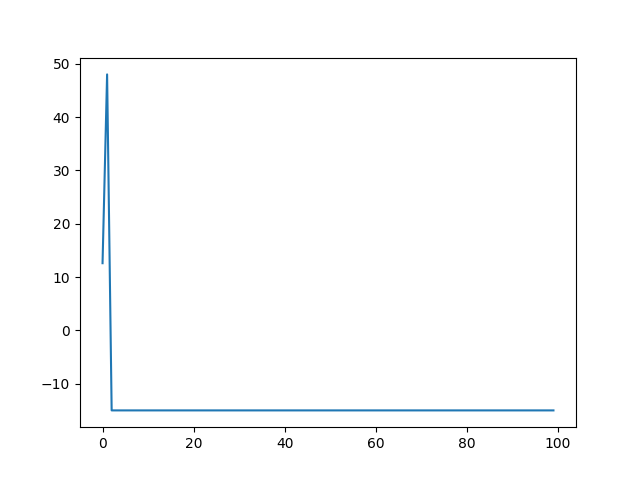
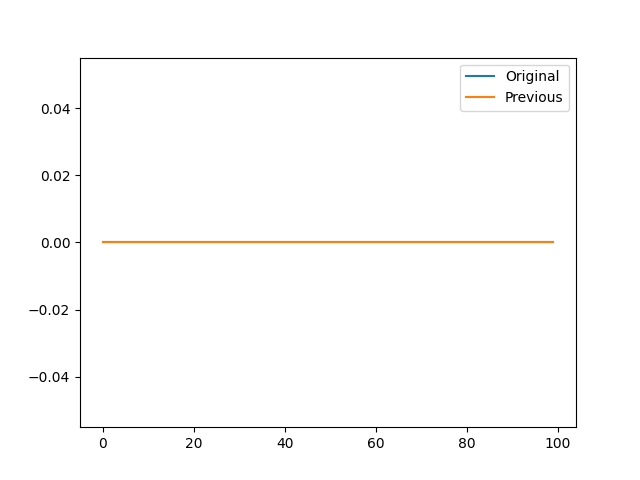
cringe

diff --git a/011/011-2.py b/011/011-2.py
@@ -1,7 +1,10 @@
 import random
 
-best_strategy = {'strategy': {'000000000': 4, '000100000': 6, '000010000': 7, '000120000': 2, '000010200': 3, '001120000': 5, '000011200': 0, '001122000': 6, '200011200': 1, '001122100': 7, '210011200': 3, '001122120': 0, '210211200': 2, '101122120': 8, '211211200': 8, '101122122': 1, '211211202': 7, '001000000': 1, '000001000': 3, '001200000': 0, '000021000': 1, '101200000': 7, '000021100': 0, '101200020': 4, '200021100': 3, '101210020': 8, '200121100': 1, '101210022': 6, '220121100': 8, '101210122': 1, '220121101': 2, '121210122': 5, '222121101': 7, '000000010': 3, '100000000': 6, '000002010': 0, '100000200': 2, '100002010': 3, '100100200': 4, '100202010': 6, '100120200': 8, '100202110': 2, '100120201': 1, '102202110': 1, '120120201': 2, '112202110': 4, '121120201': 7, '112222110': 8, '121120221': 5, '002000010': 3, '100000002': 7, '002100010': 5, '100000012': 1, '002102010': 8, '120000012': 4, '002102011': 1, '120010012': 2, '022102011': 0, '122010012': 3, '122102011': 6, '122110012': 6, '122102211': 4, '122110212': 5, '000020010': 1, '000000100': 4, '010020010': 0, '200000100': 2, '210020010': 3, '201000100': 7, '210120010': 5, '201000120': 4, '210122010': 2, '201010120': 1, '211122010': 8, '201210120': 5, '211122012': 6, '201211120': 1, '221211120': 8, '100000020': 4, '100000201': 1, '100010020': 8, '100000221': 4, '100010022': 3, '100010221': 2, '100110022': 6, '102010221': 3, '100110222': 2, '102110221': 5, '101110222': 5, '102112221': 1, '101112222': 1, '010000000': 6, '102000000': 4, '012000000': 4, '102100000': 5, '012010000': 6, '102102000': 4, '012010200': 8, '102112000': 7, '012010201': 5, '102112020': 8, '012012201': 0, '102112120': 1, '112012201': 7, '122112120': 8, '112012221': 3, '020010000': 3, '000010002': 6, '020110000': 5, '000010102': 3, '020112000': 7, '000210102': 7, '020112010': 0, '000210112': 0, '220112010': 6, '200210112': 1, '220112110': 2, '210210112': 2, '222112110': 8, '212210112': 5, '100200000': 4, '100210000': 1, '100210200': 1, '120000201': 5, '110210200': 5, '120001201': 7, '110212200': 2, '120001221': 4, '111212200': 7, '120011221': 2, '111212220': 8, '122011221': 3, '000000001': 6, '021000000': 5, '000200001': 7, '121000000': 6, '000200011': 1, '121000200': 8, '020200011': 6, '121000201': 3, '020200111': 2, '121200201': 4, '022200111': 0, '121210201': 5, '122200111': 5, '121212201': 7, '122202111': 4, '100200010': 4, '000110200': 0, '100220010': 2, '200110200': 1, '101220010': 8, '210110200': 2, '121220010': 5, '212110200': 8, '121221010': 8, '212110201': 7, '121221012': 6, '212110221': 5, '000020001': 5, '102010000': 1, '100020001': 2, '122010000': 3, '102020001': 6, '122110000': 6, '102020101': 7, '122110200': 8, '102020121': 3, '122110201': 5, '102120121': 1, '122112201': 7, '122120121': 5, '000200010': 0, '010010200': 8, '010200010': 2, '010010202': 7, '012200010': 6, '010010212': 0, '012200110': 8, '210010212': 2, '012200112': 5, '211010212': 5, '012201112': 0, '211012212': 3, '212201112': 4, '000021001': 6, '000021201': 1, '010021201': 2, '120210000': 2, '012021201': 0, '121210000': 8, '112021201': 7, '121210002': 5, '112021221': 3, '121211002': 6, '010000002': 3, '121211202': 7, '010100002': 2, '000012000': 3, '012100002': 5, '000112000': 2, '012101002': 7, '002112000': 0, '012101022': 4, '102112021': 6, '012111022': 6, '012111222': 0, '000010020': 6, '000000201': 7, '000010120': 0, '001000201': 4, '200010120': 5, '001020201': 7, '001020211': 5, '221010120': 8, '001022211': 1, '221010121': 3, '011022211': 0, '221210121': 5, '211022211': 3, '001020000': 7, '000020100': 0, '001020010': 5, '100020100': 7, '001022010': 1, '100020120': 8, '011022010': 3, '100020121': 5, '011222010': 6, '100022121': 3, '011222110': 0, '100122121': 2, '211222110': 8, '102122121': 1, '101000200': 8, '101000202': 5, '101001202': 1, '101220012': 6, '121001202': 4, '101220112': 5, '121011202': 7, '101222112': 1, '121011222': 3, '010002000': 6, '010002100': 3, '000001200': 7, '010202100': 2, '000001210': 8, '011202100': 4, '000001212': 2, '011222100': 0, '001001212': 3, '111222100': 8, '001201212': 4, '111222102': 7, '001211212': 1, '100200100': 7, '021211212': 0, '100200120': 5, '002001000': 6, '100201120': 8, '002001100': 7, '100201122': 2, '002001120': 8, '101201122': 1, '002001121': 0, '121201122': 4, '202001121': 1, '212001121': 4, '020100000': 6, '212021121': 3, '020100100': 4, '020120100': 2, '021120100': 5, '000000211': 0, '021122100': 8, '200000211': 1, '021122101': 0, '210000211': 4, '221122101': 7, '210020211': 5, '210021211': 2, '212021211': 3, '021001000': 3, '021201000': 0, '021201001': 6, '121201000': 4, '021201201': 7, '121221000': 6, '021201211': 0, '121221100': 7, '221201211': 4, '121221120': 8, '000001020': 1, '000000210': 2, '010001020': 3, '001000210': 5, '010201020': 2, '001002210': 0, '010201021': 6, '101002210': 8, '010201221': 0, '101002212': 3, '110201221': 4, '101102212': 1, '110221221': 2, '121102212': 4, '000100200': 5, '000101200': 8, '010000200': 3, '000101202': 2, '010100200': 0, '001101202': 4, '210100200': 2, '001121202': 1, '211100200': 4, '011121202': 7, '211120200': 8, '011121222': 0, '211120201': 5, '002010000': 3, '211122201': 7, '002110000': 0, '000201000': 7, '202110000': 5, '000201010': 4, '202111000': 7, '000221010': 0, '202111020': 1, '100221010': 8, '212111020': 6, '100221012': 2, '212111220': 8, '101221012': 6, '000001120': 8, '101221212': 1, '000101122': 4, '110000200': 2, '010121122': 0, '112000201': 7, '010010220': 8, '112100221': 4, '012010221': 0, '100120000': 2, '112120000': 5, '000012102': 2, '112122010': 6, '200010000': 7, '200010210': 3, '010001022': 0, '202110210': 1, '110021022': 2, '200110212': 2, '000201210': 1, '221110212': 5, '010201212': 0, '110221212': 2, '000012120': 2, '000210000': 7, '011201022': 0, '002210010': 8, '022210011': 5, '010021002': 0, '022211211': 0, '110021202': 2, '012201210': 0, '200011122': 2, '112201212': 4, '002110020': 8, '020001000': 2, '022110021': 0, '121201002': 4, '020110020': 8, '121211022': 6, '002110221': 1, '000100201': 2, '102100201': 4, '000210210': 8, '000211000': 6, '020210211': 0, '000211210': 0, '001100200': 1, '000201001': 2, '121100200': 7, '002211001': 1, '121110220': 8, '022211101': 0, '000210010': 2, '022211011': 0, '002211010': 0, '020001210': 2, '202211011': 6, '221001210': 3, '000101020': 4, '221121210': 8, '000121021': 1, '002210211': 1, '020110200': 5, '200211120': 2, '020112210': 8, '022112211': 0, '202011120': 3, '022110000': 5, '220011120': 8, '220211121': 2, '220110000': 5, '200011120': 1, '220011121': 2}, 'score': 0, '000010122': 3, '200110122': 1, '210112122': 2, '000112200': 0, '100112220': 1, '112112220': 8, '210112200': 7, '200010102': 3, '200112102': 2, '020210010': 5, '022211010': 0, '122211012': 6, '200010012': 6, '002110200': 5, '200112000': 2, '220112001': 6, '220112121': 2, '201112020': 1, '211112022': 6, '220010010': 2, '221210010': 8, '000112002': 1, '210112002': 2, '220110210': 8, '000212211': 0, '002010120': 8, '002210121': 0, '220112211': 2, '000110202': 2, '001112202': 1, '211112202': 7, '020010120': 5, '020211120': 8, '200210010': 2, '201210012': 1}
+best_strategy = {'120022211': 2, '210001022': 6, '112202021': 4, '010020002': 0, '000000200': 5, '000020210': 2, '120020210': 2, '000000002': 1, '000001022': 1, '002000000': 0, '102200000': 1, '112202000': 8, '200001200': 3, '202001210': 1, '202101212': 4, '000001202': 7, '112202201': 4, '012021122': 3, '000002000': 0, '100202000': 4, '100202201': 1, '010000022': 6, '012001022': 6, '000121202': 1, '112200002': 5, '112200212': 4, '012000002': 5, '220112201': 7, '020000000': 3, '020100200': 4, '220110200': 2, '212001002': 4, '212101022': 4, '020001221': 4, '210102002': 2, '202120100': 7, '100020212': 2, '121122200': 8, '000001220': 8, '210000002': 4, '000020000': 7, '200020100': 3, '020120000': 7, '120122000': 7, '021112202': 7, '212012000': 8, '221212001': 6, '100022021': 3, '122101220': 8, '020112200': 2, '200000000': 4, '202010000': 1, '000200000': 4, '020210000': 8, '220210001': 6, '000000020': 0, '100002020': 8, '022100000': 0, '022101020': 0, '020001200': 4, '220011200': 3, '220011221': 2, '010002002': 2, '011022002': 0, '011022212': 0, '010021022': 0, '022101221': 4, '020110202': 5, '122000000': 3, '122100002': 5, '122110202': 5, '112002221': 4, '002020112': 0, '010021202': 7, '220010000': 2, '100002200': 1, '112002200': 8, '000020012': 0, '010000202': 7, '102002021': 4, '102220112': 5, '102020000': 6, '102020012': 6, '112220120': 5, '110022212': 2, '201010220': 5, '200020010': 8, '100020020': 1, '112020020': 6, '010022012': 0, '200010200': 3, '020102000': 7, '020122010': 6, '220122110': 8, '102000002': 5, '022121102': 7, '122102210': 8, '220010021': 2, '020100002': 5, '022101002': 0, '122102000': 8, '200010020': 8, '000212000': 0, '100212200': 8, '220120010': 2, '120002000': 8, '120002201': 4, '110022221': 2, '122220011': 5, '100212002': 2, '010221212': 2, '000201200': 0, '202021010': 8, '012020012': 5, '020211212': 0, '000220010': 5, '020220011': 0, '002020010': 6, '000210002': 7, '020210012': 5, '200010221': 3, '200210012': 1, '110002202': 2, '211210022': 6, '201012212': 3, '100002002': 2, '010200002': 2, '011200022': 6, '201012200': 7, '021022112': 3, '021220112': 0, '020020010': 6, '020020112': 0, '000022010': 3, '020022011': 6, '112221020': 6, '110220020': 5, '100012022': 6, '100000022': 6, '101020022': 1, '212100002': 7, '211200002': 4, '200220011': 6, '212100122': 4, '210100022': 6, '221010200': 3, '221110220': 5, '102022010': 3, '200010002': 3, '220110002': 5, '020022110': 3, '012220112': 5, '020122211': 2, '020102210': 8, '100000220': 8, '110200220': 2, '110020022': 6, '110022122': 3, '102002000': 8, '122002010': 8, '122002211': 4, '121210202': 5, '000210200': 0, '001210202': 7, '002210000': 1, '012210002': 7, '020100020': 4, '021102020': 6, '021102122': 0, '000210020': 2, '001210220': 8, '101212220': 8, '122101022': 6, '200122010': 8, '022121012': 0, '011221202': 7, '002021012': 3, '011200202': 0, '122020010': 6, '122220110': 8, '112202210': 8, '102002210': 1, '101200022': 5, '101221022': 1, '100022120': 2, '100200020': 1, '112200020': 6, '100022000': 3, '221100020': 4, '221112020': 6, '102001202': 4, '022102010': 8, '210211022': 2, '002001200': 4, '010201022': 4, '200210000': 6, '200211020': 6, '220211120': 2, '122122010': 6, '122201021': 6, '102000020': 8, '122000021': 4, '102000200': 4, '102100202': 4, '122101202': 4, '202211000': 1, '100212020': 6, '102212120': 8, '102000221': 4, '120120200': 5, '000021200': 2, '001221200': 8, '012000212': 4, '200021210': 8, '212211002': 7, '101002022': 6, '101212022': 1, '211212002': 6, '122001221': 4, '200210021': 6, '200212121': 2, '200211002': 1, '022121000': 0, '011202002': 4, '120202001': 4, '200001212': 4, '220011212': 3, '011002022': 6, '011202122': 4, '021210200': 0, '102201212': 1, '122002001': 6, '122202101': 7, '021112220': 8, '021100220': 4, '122120000': 6, '121210220': 8, '102102200': 8, '110221220': 2, '020220110': 8, '110020220': 2, '120000020': 4, '120012020': 6, '120012122': 2, '001021220': 8, '002220011': 0, '211002002': 4, '211012202': 7, '020210201': 0, '200101202': 4, '220112210': 8, '012001202': 7, '120112022': 6, '200012000': 7, '220012010': 2, '120010022': 6, '102200021': 1, '110002022': 2, '110212022': 2, '200120210': 1, '212011022': 3, '212010002': 5, '000210212': 0, '100212212': 1, '120212000': 6, '120212120': 8, '122022011': 6, '002022011': 6, '220101002': 4, '202011212': 1, '001212020': 0, '212220011': 6, '200112212': 1, '200012210': 3, '122001200': 4, '020211200': 0, '212010200': 3, '212110202': 7, '110022200': 2, '212210021': 6, '202010021': 1, '202101221': 4, '220211000': 6, '200001221': 3, '110202020': 4, '110212220': 2, '110002220': 8, '020121002': 0, '121000022': 3, '121102022': 6, '102220010': 1, '212210000': 7, '112200122': 4, '100202021': 4, '110202002': 2, '110202212': 2, '102022121': 3, '112012220': 8, '211202102': 4, '102212000': 8, '100221221': 2, '210212021': 6, '102020021': 6, '000220112': 2, '000201221': 0, '200012021': 1, '021210020': 6, '220011002': 3, '012210221': 0, '012210020': 8, '202110002': 5, '120120002': 6, '120010220': 8, '120112220': 8, '122202011': 6, '112000220': 5, '012212120': 8, '012212000': 8, '002101202': 0, '102201221': 4, '112220021': 5, '220102211': 4, '220100000': 2, '220102001': 2, '022021010': 0, '212011202': 3, '210112202': 7, '210022211': 2, '200112002': 2, '200022011': 3, '020011202': 3, '022210001': 0, '100022102': 3, '211002122': 4, '220101212': 4, '120121202': 7, '220001210': 3, '100002221': 2, '101202221': 4, '202122110': 8, '210100202': 4, '020011220': 3, '212112200': 7, '122021012': 6, '212000012': 5, '221011220': 3, '001021202': 0, '201021200': 8, '020121212': 2, '020101202': 7, '002210012': 1, '202012010': 1, '202212011': 6, '200211122': 1, '110202200': 4, '120212012': 2, '011002202': 7, '211002212': 4, '212100212': 5, '112201022': 6, '110200022': 6, '011220002': 0, '120022001': 3, '221110022': 6, '210001202': 3, '000022211': 2, '112200200': 4, '112200221': 4, '012201221': 4, '100221212': 1, '002001221': 4, '100220210': 5, '112022021': 6, '102202010': 8, '220101221': 2, '022211210': 8, '122110022': 5, '220122011': 6, '122112200': 8, '122100200': 4, '220120211': 5, '020212001': 0, '221010212': 5, '201010202': 3, '012210200': 0, '112212200': 7, '212001221': 4, '102100220': 4, '122110220': 8, '121212020': 6, '020110220': 8, '112201220': 8, '102201200': 4, '122201012': 6, '102200012': 5, '112102220': 8, '212211020': 6, '212010020': 5, '022020110': 0, '101022221': 1, '012211202': 7, '220112021': 6, '202011221': 3, '220211102': 2, '202120010': 6, '120201221': 4, '212010221': 3, '220020110': 8, '120210212': 2, '102001220': 4, '022211201': 0, '212012120': 8, '020101022': 4, '210201122': 2, '100022210': 3, '122212100': 8, '102220121': 1, '201210020': 6, '220011020': 2, '221011022': 6, '110220212': 2, '010020212': 0, '200212010': 1, '022101200': 0, '122121002': 6, '102112220': 8, '022211012': 0, '121002221': 4, '120002021': 4, '102000212': 4, '021122012': 6, '020102012': 2, '001212200': 1, '011212202': 7, '012200012': 4, '022112210': 8, '110221022': 2, '120022100': 3, '022110200': 5, '220100021': 2, '021021200': 7, '200012012': 1, '000212012': 2, '201212012': 1, '121202021': 4, '001212212': 1, '000021221': 2, '210012221': 3, '102212210': 8, '221012210': 8, '200110022': 5, '001210022': 6, '221112200': 7, '220221110': 8, '010220012': 5, '101022122': 3, '212012021': 6, '011022122': 0, '000211202': 0, '221102210': 8, '220102010': 2, '102202211': 1, '121122002': 6, '122020112': 3, '020122112': 0, '112201202': 7, '200110202': 5, '102022100': 3, '020210021': 5, '022211021': 0, '120220211': 2, '110022002': 2, '110122202': 2, '021100022': 5, '112021022': 3, '022122110': 0, '122201201': 4, '100212122': 2, '010201202': 0, '221121200': 8, '122022110': 3, '122221010': 6, '120212102': 2, '000022112': 1, '022011200': 3, '220101122': 4, '220120001': 2, '220121201': 2, '002221010': 6, '202221110': 8, '012212021': 0, '022221110': 8, '021102212': 4, '021121202': 0, '101212202': 1, '212212100': 7, '210102122': 4, '220211012': 2, '112020122': 3, '002211200': 0, '102211220': 8, '110212202': 7, '220100201': 4, '000211220': 8, '022102211': 0, '221122010': 6, '122010020': 3, '122112020': 8, '012201122': 0, '120210020': 6, '122210120': 8, '202112210': 1, '211012022': 6, '221021210': 8, '122012120': 8, '102210212': 1, '112202120': 4, '121201022': 4, '212101202': 7, '202110212': 5, '000220211': 5, '100122212': 1, '122100020': 4, '122102021': 6, '110122022': 6, '202211120': 8, '210122210': 2, '110022020': 2, '020211221': 2, '102202001': 4, '201121220': 8, '022101212': 4, '210112022': 6, '202020011': 6, '022210211': 0, '021221012': 0, '000221012': 0, '122211200': 8, '122001212': 3, '122000012': 5, '221102012': 4, '112220012': 6, '112220000': 5, '221102120': 8, '221110202': 5, '220112012': 6, '122122001': 6, '211102202': 7, '112212020': 8, '110221202': 2, '122100221': 4, '201022211': 3, '112210220': 8, '022101122': 0, '120122210': 8, '110220122': 2, '002221112': 1, '221211020': 8, '012211022': 6, '012211220': 0, '122212010': 8, '122022101': 7, '011202212': 4, '112210202': 7, '202210121': 1, '022212011': 0, '220110221': 5, '011212220': 8, '021022211': 0, '221210021': 5, '211212020': 6, '102221012': 6, '200121221': 2, '021212201': 0, '112022120': 3, '102211202': 7, '120221210': 2, '021210221': 5, '101202122': 4, '110202221': 2, '012221012': 6, '122002121': 4, '010020122': 0, '021212012': 6, '211021220': 8, '121012022': 6, '120210122': 2, '120122012': 6, '100022012': 3, '220121210': 8, '212110220': 5, '221102021': 6, '121022102': 3, '221101022': 6, '022021112': 0, '212001122': 4, '220211021': 2, '120021212': 3, '212011220': 3, '011212022': 6, '120122201': 2, '220210121': 2, '200210102': 2, '220021211': 3, '202012211': 1, '212022011': 6, '220210100': 2, '120022112': 3, '201112022': 6, '221211002': 7, '221210000': 6, '202210100': 1, '212210102': 7, '122020100': 3, '221112002': 6, '221102000': 4, '102000122': 5, '020221112': 2, '020221010': 6, '101022002': 1, '000122012': 2, '102020120': 1, '120220112': 2, '210210002': 6, '220110020': 2, '000122210': 2, '100210202': 7, '210210122': 2, '200210120': 1, '100020221': 2, '002011202': 7, '011122022': 6, '002122010': 6, '010002122': 2, '020221211': 2, '201020210': 3, '102210200': 1, '001221212': 1, '000221210': 0, '001122212': 0, '001020212': 0, '100002122': 2, '210010022': 6, '202110200': 1, '112221002': 7, '110220002': 5, '100201202': 7, '022110020': 5, '000021212': 2, '200121200': 8, '020112020': 8, '020112221': 0, '221120201': 5, '221120000': 7, '201012221': 1, '102010220': 8, '120000122': 4, '010002212': 4, '102122021': 6, '002220110': 5, '200212100': 2, '100200122': 1, '001220210': 5, '010200212': 0, '221012021': 6, '010200122': 2, '211200122': 4, '221102201': 7, '102002201': 4, '021122210': 0, '021020210': 3, '221100122': 5, '221100002': 4, '122010122': 3, '110020202': 2, '102022001': 3, '100200221': 5, '101202002': 4, '221220110': 5, '101220212': 1, '100220012': 5, '200101220': 8, '102012200': 8, '012201002': 4, '022120010': 0, '122120012': 6, '020001212': 0, '200221010': 6, '012210122': 5, '012000122': 5, '221010002': 6, '220112120': 2, '102102221': 4, '210212120': 2, '102020102': 5, '121022210': 3, '102220100': 5, '120221012': 2, '120020012': 5, '202211102': 1, '221010020': 8, '022112021': 0, '102021002': 6, '201112202': 1, '200112200': 2, '210102212': 2, '202020110': 8, '212220110': 8, '122010200': 7, '122210210': 8, '200112221': 1, '212201012': 6, '110202122': 2, '102001022': 6, '102210122': 1, '100201220': 8, '101221220': 8, '112020002': 5, '121002212': 4, '101002202': 7, '221011202': 3, '202011200': 3, '001022210': 3, '102201002': 7, '121201202': 4, '120201200': 2, '020110022': 6, '210000122': 4, '112122020': 6, '100122020': 1, '202221011': 6, '221101220': 8, '100210220': 8, '000201212': 0, '210000212': 4, '210010202': 7, '202122011': 6, '121212200': 8, '002211212': 1, '212221010': 8, '221010221': 5, '122011220': 8, '002022110': 8, '220221011': 2, '012201212': 4, '021120212': 0, '020120012': 0, '122211002': 7, '122001002': 4, '102122000': 6, '100122221': 1, '100122200': 2, '200110220': 5, '212022110': 8, '221120210': 5, '002011220': 8, '022011221': 0, '110220221': 2, '022120112': 0, '102010202': 7, '221100200': 5, '220110122': 2, '100221200': 2, '101202212': 1, '002211221': 0, '120211220': 8, '021220211': 5, '112220102': 5, '210012002': 2, '210012122': 2, '212001212': 4, '002001212': 4, '120000221': 4, '122012210': 8, '121200122': 5, '200020211': 2, '220101200': 4, '011220212': 0, '100020122': 1, '020120210': 2, '212010122': 5, '212210120': 8, '121201220': 8, '221020211': 5, '121220012': 6, '202101200': 4, '210021221': 2, '100122002': 2, '011122202': 0, '101022212': 1, '220020011': 2, '021021212': 0, '120211202': 2, '120120212': 2, '102121022': 6, '120201212': 4, '121002002': 4, '121212002': 6, '122011202': 3, '012021002': 0, '221100221': 4, '021221210': 8, '220212101': 7, '122011022': 3, '221102102': 7, '001212221': 0, '221122001': 6, '221012000': 3, '121210022': 6, '121021202': 3, '120210200': 8, '011220122': 0, '200122211': 2, '022221011': 6, '221101202': 4, '121221200': 8, '202110221': 5, '121020212': 5, '211022210': 8, '212122010': 8, '212212001': 7, '121220210': 8, '122010212': 3, '201112220': 8, '221012012': 6, '211102022': 6, '221001212': 3, '110122220': 2, '201122210': 8, '121002122': 3, '122100212': 5, '021210212': 5, '122102201': 4, '101122220': 1, '012212201': 7, '122021102': 3, '022110221': 5, '101122202': 1, '102221102': 7, '011221220': 0, '210212102': 2, '102201122': 4, '102221120': 8, '121012202': 3, '102021122': 3, '101221202': 1, '122221100': 8, '122001122': 3, '010122212': 2, '121022012': 3, '022011212': 3, '101122022': 1, '020112122': 2, '101220221': 1, '022110122': 5, '221220011': 5, '221022011': 6, '212012201': 7, '012221102': 0, '022122011': 6, '221212010': 6, '211122120': 8, '000000000': 2, '001000020': 3, '201100020': 6, '201120120': 8, '001020000': 1, '011220000': 5, '011221002': 0, '011221212': 0, '001102020': 4, '001112022': 6, '211112022': 6, '001100022': 6, '101120022': 1, '101012022': 6, '021112212': 0, '001000002': 4, '001012002': 0, '021000000': 3, '021102000': 4, '021112200': 7, '001200000': 5, '001201002': 6, '001201122': 1, '211201122': 4, '001000200': 0, '101000220': 8, '101012220': 8, '011120022': 0, '011020020': 3, '201000000': 5, '201001020': 1, '211201020': 8, '001201200': 0, '001211220': 8, '021201000': 4, '221211000': 6, '001010202': 7, '121010220': 8, '011221122': 0, '101210202': 7, '201021000': 8, '101200200': 4, '001201020': 0, '101221020': 1, '101221122': 1, '011221020': 6, '211221120': 8, '001002000': 8, '001022001': 3, '011022021': 3, '011122221': 0, '221001000': 4, '021211200': 0, '221100012': 4, '021100002': 7, '021211020': 8, '121120200': 7, '021100200': 0, '101000202': 7, '101120202': 1, '221100000': 4, '221110020': 8, '221110221': 5, '021100020': 4, '221100120': 4, '011020200': 3, '211120200': 8, '211120221': 5, '011221200': 0, '221112210': 8, '221112000': 7, '201202011': 6, '001202001': 4, '101012202': 1, '001100220': 8, '021100221': 4, '121102221': 4, '201121020': 8, '211001022': 6, '011120202': 0, '121120212': 5, '121100202': 7, '211022001': 3, '201002001': 7, '221212011': 6, '001010022': 6, '011210022': 6, '201201000': 6, '201201102': 4, '221201100': 4, '101210220': 8, '001120020': 1, '021022101': 7, '121100220': 8, '121012212': 3, '021002001': 6, '121000200': 3, '021010002': 0, '121010202': 7, '001211202': 0, '121122201': 7, '101020200': 8, '121020201': 7, '021102012': 0, '121122012': 6, '221002101': 7, '021112020': 8, '021112221': 0, '201010002': 5, '201011022': 3, '001002021': 0, '101002221': 4, '221012211': 3, '221002011': 4, '101212200': 8, '221011200': 3, '201102120': 4, '011120220': 8, '211121220': 8, '121010022': 6, '211122021': 6, '101220201': 5, '121220211': 5, '201001002': 4, '211001220': 8, '221001102': 4, '001002201': 1, '011202201': 0, '001202211': 4, '121202211': 4, '021121212': 0, '021120000': 7, '021121002': 7, '021121200': 7, '221121000': 8, '011122020': 6, '011122122': 0, '021102120': 0, '001210002': 6, '021100122': 4, '211021200': 3, '211020000': 8, '121012002': 6, '201001200': 3, '201011202': 3, '221110002': 5, '201112020': 6, '011020002': 0, '101002200': 8, '101202201': 4, '211010022': 5, '211211022': 6, '021112002': 6, '021211002': 0, '121211022': 6, '221011020': 3, '021002121': 4, '221102121': 4, '021202011': 6, '211122210': 8, '011122200': 7, '011021022': 0, '121211202': 7, '001102221': 4, '001112220': 8, '011022210': 8, '011022000': 3, '101202021': 1, '101022201': 1, '121102200': 4, '121112220': 8, '201121200': 8, '211021020': 8, '221110200': 7, '221110212': 5, '201001122': 4, '001221000': 7, '021221010': 8, '201201120': 1, '101022021': 1, '121002021': 4, '101212002': 1, '121210002': 6, '011022012': 3, '011122212': 0, '221112021': 6, '101102022': 6, '101201022': 1, '001221210': 8, '121102212': 4, '011012022': 0, '101201220': 8, '121211220': 8, '121210212': 5, '121210200': 7, '021201102': 0, '121201122': 4, '211120020': 8, '121112202': 7, '221011002': 6, '001120221': 1, '201211002': 6, '121002201': 3, '201122211': 1, '201002211': 3, '121221012': 6, '001221012': 0, '121221102': 7, '201022011': 3, '121201020': 4, '021120012': 0, '101020221': 5, '121100022': 6, '211022211': 3, '011022201': 3, '211012221': 3, '211002201': 3, '201221100': 8, '021100212': 0, '101102202': 7, '101122020': 8, '121112022': 6, '221221110': 8, '211221000': 8, '201011220': 3, '201112221': 1, '201100221': 4, '021202101': 4, '101120220': 8, '221122011': 6, '121212210': 8, '221112012': 6, '211022010': 3, '201221010': 8, '021211212': 0, '021011202': 7, '021110220': 8, '101122212': 1, '021221112': 0, '001221102': 0, '011002221': 4, '101221212': 1, '021122112': 0, '221121210': 8, '011021202': 0, '211122201': 7, '201100122': 4, '221011212': 3, '221102211': 4, '101122221': 1, '011212221': 0, '221101212': 4, '021110022': 6, '211020021': 3, '121201200': 8, '121122210': 8, '121000221': 4, '201122121': 1, '001122021': 1, '211020201': 5, '001210212': 0, '021212001': 7, '101200212': 4, '101212212': 1, '021122001': 7, '001120122': 0, '021122010': 0, '201101202': 4, '221120010': 8, '001122201': 1, '201212001': 6, '201122001': 6, '001212021': 6, '121000212': 3, '211122000': 8, '021010212': 5, '201010212': 1, '101002212': 4, '101200221': 4, '011122002': 0, '211220001': 5, '201101220': 8, '001212201': 0, '021212211': 0, '101020212': 3, '211212021': 6, '221122101': 7, '021120210': 5, '101221200': 7, '121221210': 8, '021122211': 0, '001012212': 0, '211102221': 4, '121022211': 3, '221101200': 7, '001102122': 0, '121121202': 7, '121201212': 4, '101201202': 7, '211220121': 5, '221120211': 5}
+
 new_possible_moves = {}
+
+order = 0
 
 def print_board(board):
     print('\nCurrent Board\n')
@@ -10,7 +13,7 @@ def print_board(board):
         if i < 2:
             print('\t---------')
 
-for game in range(10):
+for game in range(5):
 
     print('\nGame:', game + 1)
 
@@ -20,9 +23,9 @@ for game in range(10):
 
         for turn in range(9):
 
-            print_board(board)
+            if turn != 0: print_board(board)
 
-            if (turn % 2) == 0:
+            if (turn % 2) == order:
 
                 current_state = ''
 
@@ -31,8 +34,8 @@ for game in range(10):
                     elif space == 'O': current_state += '1'
                     elif space == 'X': current_state += '2'
 
-                if current_state in best_strategy['strategy'].keys():
-                    current_move = best_strategy['strategy'][current_state]
+                if current_state in best_strategy.keys():
+                    current_move = best_strategy[current_state]
                 else:
                     choices = [i for i in board if isinstance(i, int)]
                     current_move = random.choices(choices)[0]
@@ -69,9 +72,12 @@ for game in range(10):
                         for state, move in new_possible_moves.items():
                             best_strategy[state] = move
                         print_board(board)
+                        order = 0
                     elif space == 'X':
                         print('\nYou won!')
                         print_board(board)
+                        order = 1
+                        best_strategy[current_state] = current_move
                     raise Exception('win')
 
         raise Exception('draw')
@@ -79,6 +85,9 @@ for game in range(10):
     except Exception as exc:
         if exc.args[0] == 'draw':
             print('\nGame Finished: Draw')
+            best_strategy[current_state] = current_move
+            for state, move in new_possible_moves.items():
+                best_strategy[state] = move
             print_board(board)
         continue
 

diff --git a/011/011-1.py b/011/011-1.py
@@ -1,41 +1,83 @@
-import random
+from numpy import random
+import math
 from tic_tac_toe import Game
 
-def generate_strategy(seed):
-    random.seed(seed)
-    strategy = {}
+def generate_strategy(num_of_branches = 3, depth = 0, max_depth = 9, strategy = {}, strings = [{'board':[0 for _ in range(9)], 'space': None}]): # depth is also turn number
 
-    for _ in range(25):
+    if depth == max_depth: return strategy
 
-        string = [0 for _ in range(9)]
+    player = (depth % 2) + 1
+    
+    new_strings = build_new_strings(strings, player, num_of_branches)
 
-        for i in range(9):
+    random.shuffle(new_strings)
+        
+    for string in new_strings:
+    
+        temp = string['board'][:string['space']] + [0] + string['board'][string['space'] + 1:]
+        state = ''.join([str(item) for item in temp])
 
-            player = (i % 2) + 1
-            choices = [i for i in range(9) if string[i] == 0]
-            space = random.choices(choices)[0]
-            strategy[''.join([str(item) for item in string])] = space
-            string[space] = player
+        if state in strategy.keys(): continue
+        
+        strategy[state] = string['space']
+
+    random.shuffle(new_strings)
+    return generate_strategy(num_of_branches, depth = depth + 1, strategy = strategy, strings = new_strings[:num_of_branches])
+
+    # strategy = {}
+    
+    # for _ in range(100):
+
+    #     string = [0 for _ in range(9)]
+
+    #     for i in range(9):
+
+    #         player = (i % 2) + 1
+    #         choices = [i for i in range(9) if string[i] == 0]
+    #         space = random.choice(choices)
+    #         strategy[''.join([str(item) for item in string])] = space
+    #         string[space] = player
             
-    return strategy
+    # return strategy
 
-def fight(i, strategy_one, strategy_two):
-    random.seed(i)
+def build_new_strings(strings, player, num_of_branches):
+
+    new_strings = []
+    
+    for string in strings:
+
+        for i in range(num_of_branches):
+                            
+            choices = [j for j in range(9) if string['board'][j] == 0]
+            space = random.choice(choices)
+            temp = string['board'][:space] + [player] + string['board'][space + 1:]
+            new_strings.append({'board': temp, 'space': space})
+
+    return new_strings
+
+def fight(i, strategy_one, strategy_two, count_score = True):
     game = Game(strategy_one['strategy'], strategy_two['strategy'])
     result = game.play()
     strategy_one['strategy'], strategy_two['strategy'] = result[1][0], result[1][1]
 
+    if not count_score: return strategy_one, strategy_two
+    
     if result[0][1] != 'Draw':
 
-        if result[0][1] == 1:
+        if result[0][1] == 1: # player 1
 
             strategy_one['score'] += 1
             strategy_two['score'] -= 1
 
-        elif result[0][1] == 2:
+        elif result[0][1] == 2: # player 2
 
             strategy_one['score'] -= 1
             strategy_two['score'] += 1
+        
+    # else: # draw
+
+    #     strategy_one['score'] += 1
+    #     strategy_two['score'] -= 1            
 
     return strategy_one, strategy_two
 
@@ -51,16 +93,31 @@ def breed(strategy_one, strategy_two):
 
         else:
 
-            baby_strategy['strategy'][key_1] = random.choices([value_1, value_2])[0]
+            baby_strategy['strategy'][key_1] = random.choice([value_1, value_2])
 
     return baby_strategy
 
+def calculate_score(best_five, strategies):
+
+    for i, strategy_one in enumerate(best_five[:5]):
+
+        for strategy_two in strategies[:5]:
+
+            best_five[i], _ = fight(i, strategy_one, strategy_two, False)
+
+    return sum([strategy['score'] / len(best_five) for strategy in best_five])
+
 strategies = []
-average_score = []
+original_average_score = []
+previous_average_score = []
 
 for i in range(25):
-    strategies.append({'strategy': generate_strategy(i), 'score': 0})
+    random.seed(i)
+    new_strategy = generate_strategy(num_of_branches=9)
+    strategies.append({'strategy': new_strategy, 'score': 0})
+    del new_strategy
 
+original_strategies = [strategy for strategy in strategies]
 previous_strategies = [strategy for strategy in strategies]
 
 for generation in range(1, 101):
@@ -74,38 +131,33 @@ for generation in range(1, 101):
             strategies[i], strategies[j] = fight(i, strategy_one, strategy_two)
 
     strategies.sort(key = lambda strategy: strategy['score'], reverse = True)
-    temp_1 = strategies[:5]
-    previous_strategies = [strategy for strategy in strategies]
-    del strategies
+    print("bad", strategies.count(strategies[-1]))
+    best_five = [strategy for strategy in strategies[:5]]
 
-    for strategy in temp_1: strategy['score'] = 0
+    for strategy in best_five: strategy['score'] = 0
 
-    for i, strategy_one in enumerate(temp_1):
+    previous_average_score.append(calculate_score(best_five, previous_strategies))
+    original_average_score.append(calculate_score(best_five, original_strategies))
+    new_strategies = [strategy for strategy in strategies]
 
-        for strategy_two in previous_strategies:
+    for i, strategy_one in enumerate(best_five):
 
-            temp_1[i], _ = fight(i, strategy_one, strategy_two)
-
-    average_score.append(sum([strategy['score'] / len(temp_1) for strategy in temp_1]) )
-    temp_2 = []
-
-    for strategy in temp_1: strategy['score'] = 0
-
-    for i, strategy_one in enumerate(temp_1):
-
-        for strategy_two in temp_1[:i] + temp_1[i + 1:]:
+        for strategy_two in best_five[:i] + best_five[i + 1:5]:
 
             new_strategy = breed(strategy_one, strategy_two)
-            temp_2.append(new_strategy)
+            new_strategies.append(new_strategy)
 
-    strategies = temp_2
-    
+    previous_strategies = [strategy for strategy in strategies]
+    strategies = best_five
+    del best_five
 
 import matplotlib.pyplot as plt
 
-plt.plot(list(range(100)), average_score)
+plt.plot(list(range(100)), previous_average_score)
+plt.plot(list(range(100)), original_average_score)
+plt.legend(['Original', 'Previous'])
 plt.savefig('images/011-1.png')
 
 print("\nTraining Complete")
 
-print("\nBest Strategy\n\n", strategies[0], "\n\n")
+print("\nBest Strategy\n\n", strategies[0]['strategy'], "\n\n")

diff --git a/011/tic_tac_toe.py b/011/tic_tac_toe.py
@@ -1,38 +1,38 @@
-import random
+from numpy import random
 
 class Game:
     def __init__(self, strategy_one, strategy_two):
         self.board = [0 for _ in range(9)]
 
         if isinstance(strategy_one, list): strategy_one = strategy_one[0]
+
         if isinstance(strategy_two, list): strategy_two = strategy_two[0]
+
         self.strategies = [strategy_one, strategy_two]
 
     def play(self):
         current_player = 0
-        new_possible_moves = [{}, {}]
+        #new_possible_moves = [{}, {}]
         while not self.game_finished()[0] and self.board.count(0) > 0:
             current_state = self.state()
             if current_state in self.strategies[current_player].keys():
                 current_move = self.strategies[current_player][current_state]
             else:
                 choices = [i for i in range(9) if self.board[i] == 0]
-                current_move = random.choices(choices)[0]
-                new_possible_moves[current_player][current_state] = current_move
+                current_move = random.choice(choices)
+                #new_possible_moves[current_player][current_state] = current_move
             self.place(current_player, current_move)
-            if current_player == 0: 
-                current_player = 1
-                continue
-            else:
-                current_player = 0
-                continue
+            
+            current_player = 1 if current_player == 0 else 0
 
         winner = self.game_finished()
 
-        for current_player, new_moves in enumerate(new_possible_moves):
-            if current_player + 1 == winner[1]:
-                for state, move in new_moves.items():
-                    self.strategies[current_player][state] = move
+        # new_possible_moves[current_player - 1][current_state] = current_move # next time dont let player win using same move
+
+        # for current_player, new_moves in enumerate(new_possible_moves):
+        #     if current_player + 1 == winner[1] or not winner[0]:
+        #         for state, move in new_moves.items():
+        #             self.strategies[current_player][state] = move
 
         if winner[1] == None and self.board.count(0) == 0:
             #print("\tDraw")
@@ -58,11 +58,16 @@ class Game:
         return ''.join([str(space) for space in self.board])
 
     def game_finished(self):
+        if self.board.count(0) > 4: return (False, None, None)
         for index, space in enumerate(self.board):
-            horizontal = index in [0,3,6] and self.board[index] != 0 and self.board[index + 1] == space and self.board[index + 2] == space
-            vertical = index in [0,1,2] and self.board[index] != 0 and self.board[index + 3] == space and self.board[index + 6] == space
-            forward_diagonal = self.board[index] != 0 and index == 0 and self.board[index + 4] == space and self.board[index + 8] == space
-            backward_diagonal = self.board[index] != 0 and index == 2 and self.board[index + 2] == space and self.board[index + 4] == space
-            if [horizontal, vertical, forward_diagonal, backward_diagonal].count(True) > 0:
-                return (True, space, [horizontal, vertical, forward_diagonal, backward_diagonal])
+
+            horizontal = index in [0, 3, 6] and not self.board[index] != 0 and self.board[index + 1] == space and self.board[index + 2] == space
+            vertical = index in [0, 1, 2] and not self.board[index] != 0 and self.board[index + 3] == space and self.board[index + 6] == space
+            forward_diagonal = index in [0, 4, 8] and not self.board[index] != 0 and self.board[0] == space and self.board[4] == space and self.board[8] == space
+            backward_diagonal = index in [2, 4, 6] and not self.board[index] != 0 and self.board[2] == space and self.board[4] == space and self.board[6] == space
+            
+            connected = [horizontal, vertical, forward_diagonal, backward_diagonal]
+
+            if connected.count(True) > 0: return (True, space, connected)
+
         return (False, None, None)
